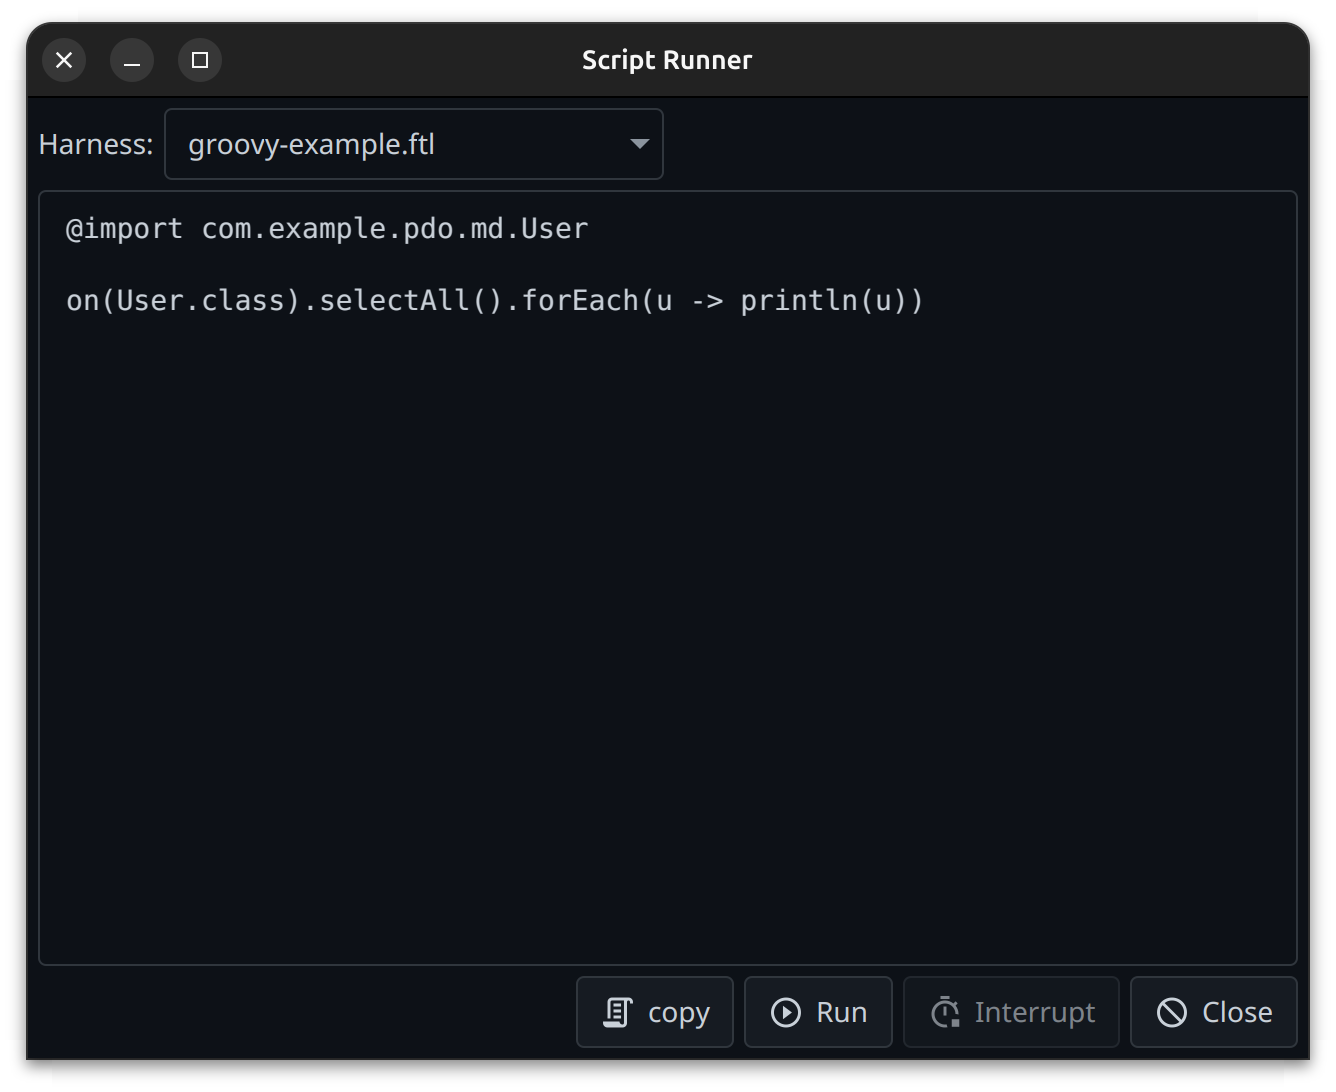
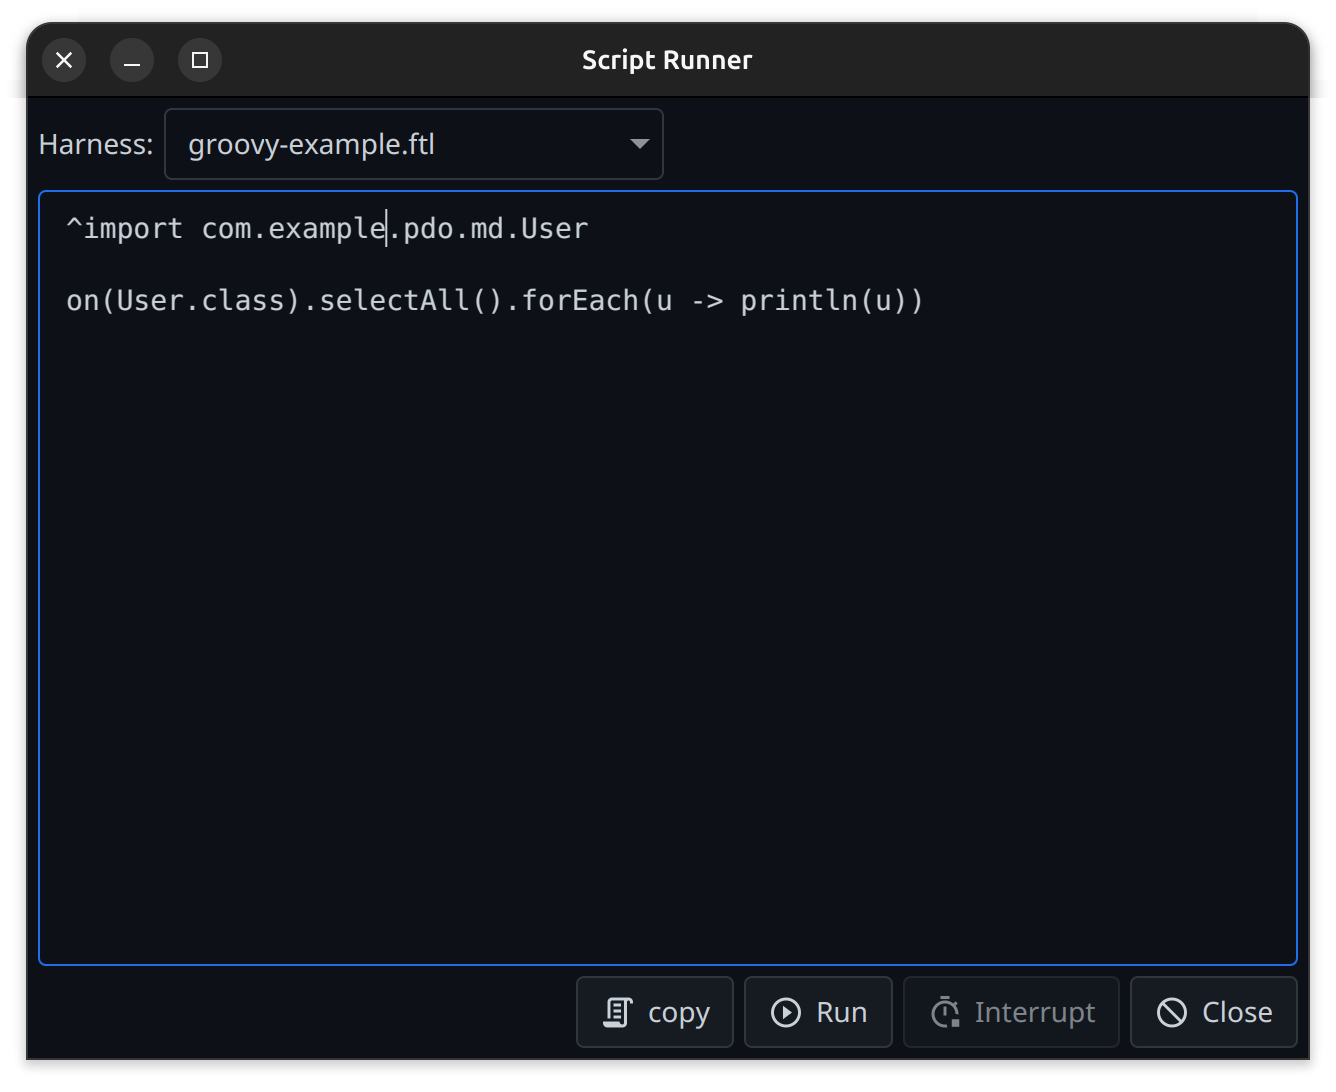
script wizard: changed import marker from @ to ^

diff --git a/tentackle-wizard-maven-plugin/src/main/java/org/tentackle/maven/plugin/wizard/ScriptMojo.java b/tentackle-wizard-maven-plugin/src/main/java/org/tentackle/maven/plugin/wizard/ScriptMojo.java
@@ -67,9 +67,9 @@ import java.util.concurrent.CountDownLatch;
  * <p>
  * Since the fragment is inserted into the {@code run()} method, it cannot contain
  * import statements itself. Instead, the fragment marks such lines with a
- * leading {@code @}-sign, for example {@code @import org.tentackle.misc.*} in
+ * leading {@code ^}-sign, for example {@code @import org.tentackle.misc.*} in
  * Groovy or {@code @require 'json'} in Ruby. Every line starting with an
- * {@code @}-sign is removed from the fragment, stripped of the {@code @}-sign,
+ * {@code ^}-sign is removed from the fragment, stripped of the {@code ^}-sign,
  * and provided to the harness via the {@code imports} model variable, which
  * places it at the top level of the generated script.
  * <p>
@@ -244,8 +244,8 @@ public class ScriptMojo extends AbstractWizardMojo {
 
   /**
    * Weaves a fragment into a harness.<br>
-   * Lines of the fragment starting with an {@code @}-sign are moved to the
-   * {@code imports} model variable, stripped of the {@code @}-sign.
+   * Lines of the fragment starting with an {@code ^}-sign are moved to the
+   * {@code imports} model variable, stripped of the {@code ^}-sign.
    *
    * @param scriptHarness the harness
    * @param fragment the script fragment

diff --git a/tentackle-wizard-maven-plugin/src/main/java/org/tentackle/maven/plugin/wizard/FragmentParts.java b/tentackle-wizard-maven-plugin/src/main/java/org/tentackle/maven/plugin/wizard/FragmentParts.java
@@ -20,13 +20,13 @@ package org.tentackle.maven.plugin.wizard;
 
 /**
  * Extracts the import lines from a fragment.<br>
- * A line marks an import if it starts with an import marker (defaults to {@code @}-sign).
+ * A line marks an import if it starts with an import marker (defaults to {@code ^}-sign).
  * Such lines are removed from the fragment and collected in the
- * order of appearance, stripped of the {@code @}-sign.
+ * order of appearance, stripped of the {@code ^}-sign.
  */
 public class FragmentParts {
 
-  private static final String DEFAULT_IMPORT_MARKER = "@";
+  private static final String DEFAULT_IMPORT_MARKER = "^";
 
   private final String imports;
   private final String content;
@@ -60,7 +60,7 @@ public class FragmentParts {
 
   /**
    * Creates the parts.
-   * Uses the default import marker ({@code @}-sign).
+   * Uses the default import marker ({@code ^}-sign).
    *
    * @param fragment the fragment
    */

diff --git a/tentackle-wizard-maven-plugin/src/main/docs/tentackle-wizard-maven-plugin.md b/tentackle-wizard-maven-plugin/src/main/docs/tentackle-wizard-maven-plugin.md
@@ -378,18 +378,17 @@ it is stripped and does not land in the generated script. The scripting language
 `tentackle-script-groovy`) must be on the plugin classpath, added as a `<dependency>` of the plugin.
 
 Since the fragment lands inside the `run()` method, it cannot contain import statements itself.
-Instead, the fragment marks import lines with a leading `@`-sign:
+Instead, the fragment marks import lines with a leading `^`-sign:
 
 ```groovy
-@import org.tentackle.misc.*
-@import java.time.LocalDate
+^import org.tentackle.misc.*
+^import java.time.LocalDate
 ```
 
-Every line starting with an `@`-sign is removed from the fragment, stripped of
-the `@`-sign, and handed to the harness via the `imports` variable, which places it at the top level
-of the generated script. The mechanism is language-agnostic — in a Ruby fragment, `@require 'json'`
-becomes a top-level `require 'json'`. Note that consequently a line must not *start* with an
-annotation (`@Override`, …); place annotations on the same line as the annotated element instead.
+Every line starting with an `^`-sign is removed from the fragment, stripped of
+the `^`-sign, and handed to the harness via the `imports` variable, which places it at the top level
+of the generated script. The mechanism is language-agnostic — in a Ruby fragment, `^require 'json'`
+becomes a top-level `require 'json'`.
 
 When weaving, FreeMarker exposes four variables to the harness template:
 
